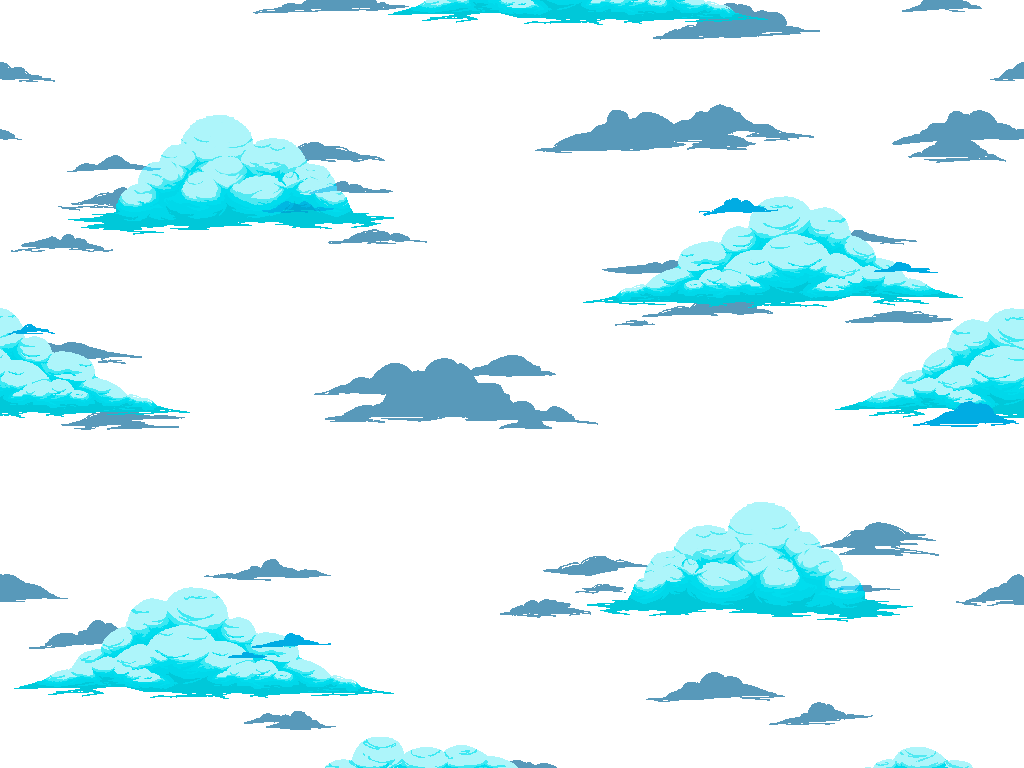
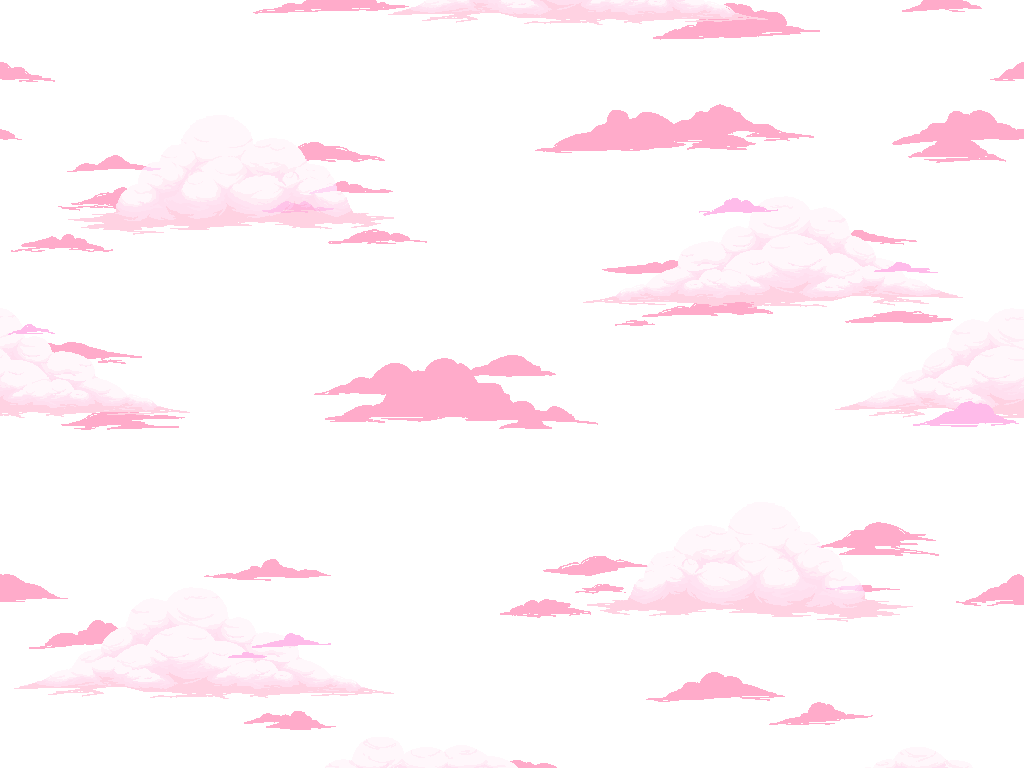
updated backgrounds, added placeholder ending, changed scene order to match actual scene order

diff --git a/src/scenes/Tutorial.js b/src/scenes/Tutorial.js
@@ -23,7 +23,7 @@ class Tutorial extends Phaser.Scene {
         } 
 
         // add bg
-        this.bg = this.add.tileSprite(0, 0, 1024, 768, 'bg_1').setOrigin(0, 0);
+        this.bg = this.add.tileSprite(0, 0, 1024, 768, `bg_${chapter}`).setOrigin(0, 0);
 
         this.add.text(50, 200, "Don't Call Me Winkle (Please ;^;)", textConfig).setDepth(5);
         // text wrap based on example from http://phaser.io/examples/v3/view/game-objects/text/word-wrap-by-width

diff --git a/src/scenes/Ending.js b/src/scenes/Ending.js
@@ -4,6 +4,12 @@ class Ending extends Phaser.Scene {
     }
 
     create() {
-        this.add.image('jeff');;
+        this.jeff = this.add.image(game.config.width/2, game.config.height/2, 'jeff');
+
+        this.add.text(game.config.width/2, game.config.height/5, 'ENDING!', {fontSize: 60, fontWeight: 'bold', color: '#8e87f1'}).setOrigin(0.5).setDepth(1);
     } 
+
+    update() {
+
+    }
 }

diff --git a/index.html b/index.html
@@ -24,6 +24,7 @@
     <script src="./src/scenes/Tutorial.js"></script>
     <script src="./src/scenes/Story.js"></script>
     <script src="./src/scenes/Migrate.js"></script>
+    <script src="./src/scenes/Ending.js"></script>
     <!-- <script src="./src/scenes/VN_1.js"></script>
     <script src="./src/scenes/Game_2.js"></script>
     <script src="./src/scenes/VN_2.js"></script>

diff --git a/src/scenes/Migrate.js b/src/scenes/Migrate.js
@@ -121,7 +121,7 @@ class Migrate extends Phaser.Scene {
                 if (chapter < 3) {
                     chapter++;
                     practice = true;
-                    this.scene.start("storyScene");
+                    this.scene.start("tutorialScene");
                 } else this.scene.start("endScene");
             }
         }

diff --git a/src/prefabs/PeriMigrate.js b/src/prefabs/PeriMigrate.js
@@ -5,7 +5,7 @@ class PeriMigrate extends Phaser.Physics.Arcade.Sprite {
         // add sprite to scene 
         scene.add.existing(this);
         scene.physics.add.existing(this);
-        this.setCircle(20, 4, 15);
+        this.setCircle(27, 2, 7);
 
         // this.setBounce(1, 1);
 

diff --git a/src/main.js b/src/main.js
@@ -11,7 +11,7 @@ let config = {
     scale: {autoCenter: Phaser.Scale.CENTER_BOTH
     },
     pixelArt: true,
-    scene: [Load, Tutorial, Migrate, Story]
+    scene: [Load, Tutorial, Migrate, Story, Ending]
 }
 let game = new Phaser.Game(config);
 
